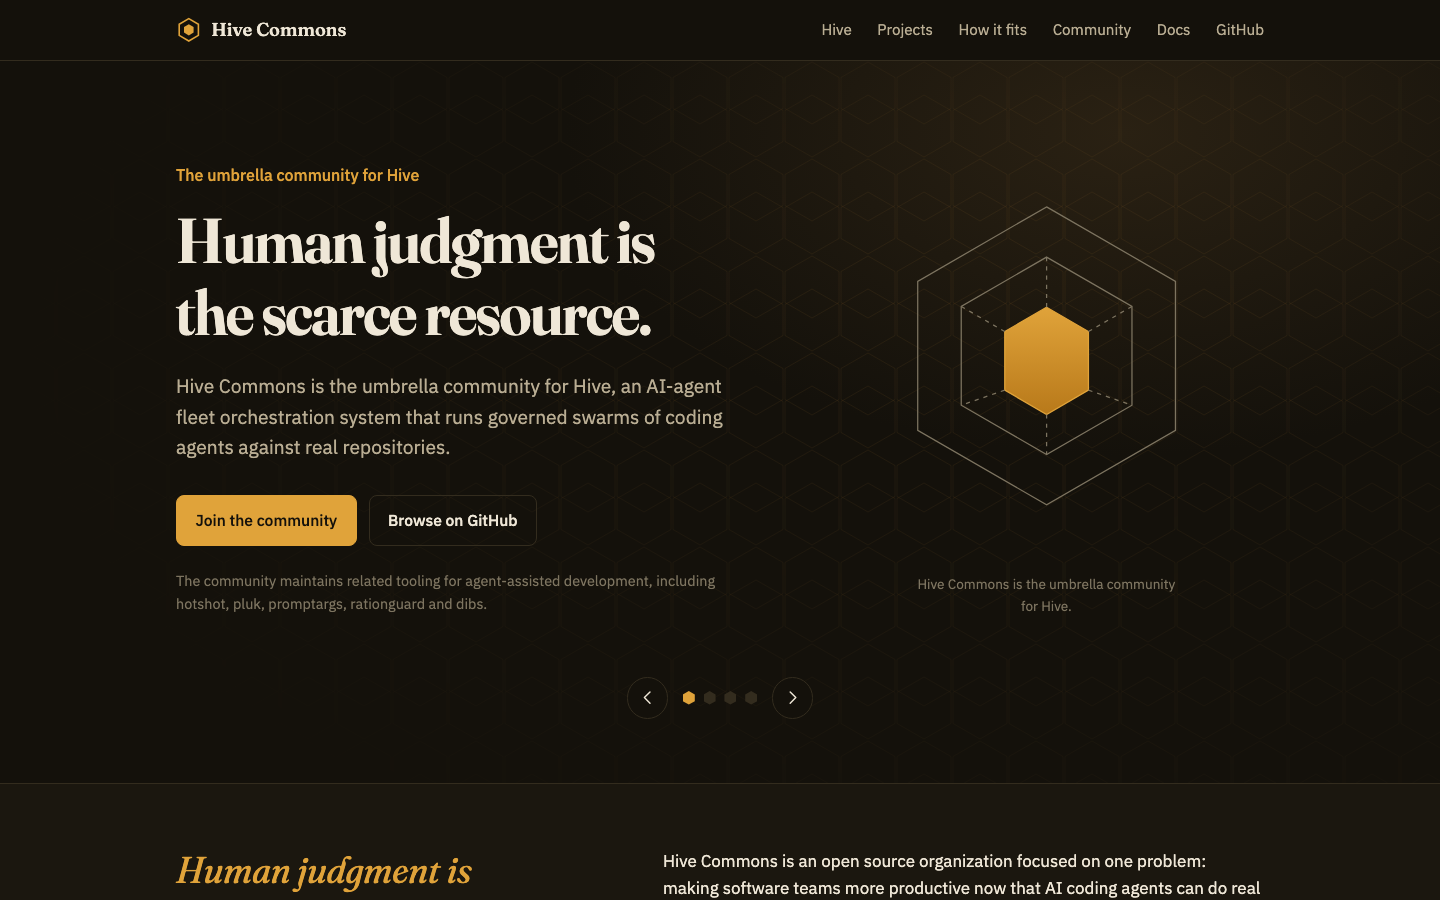
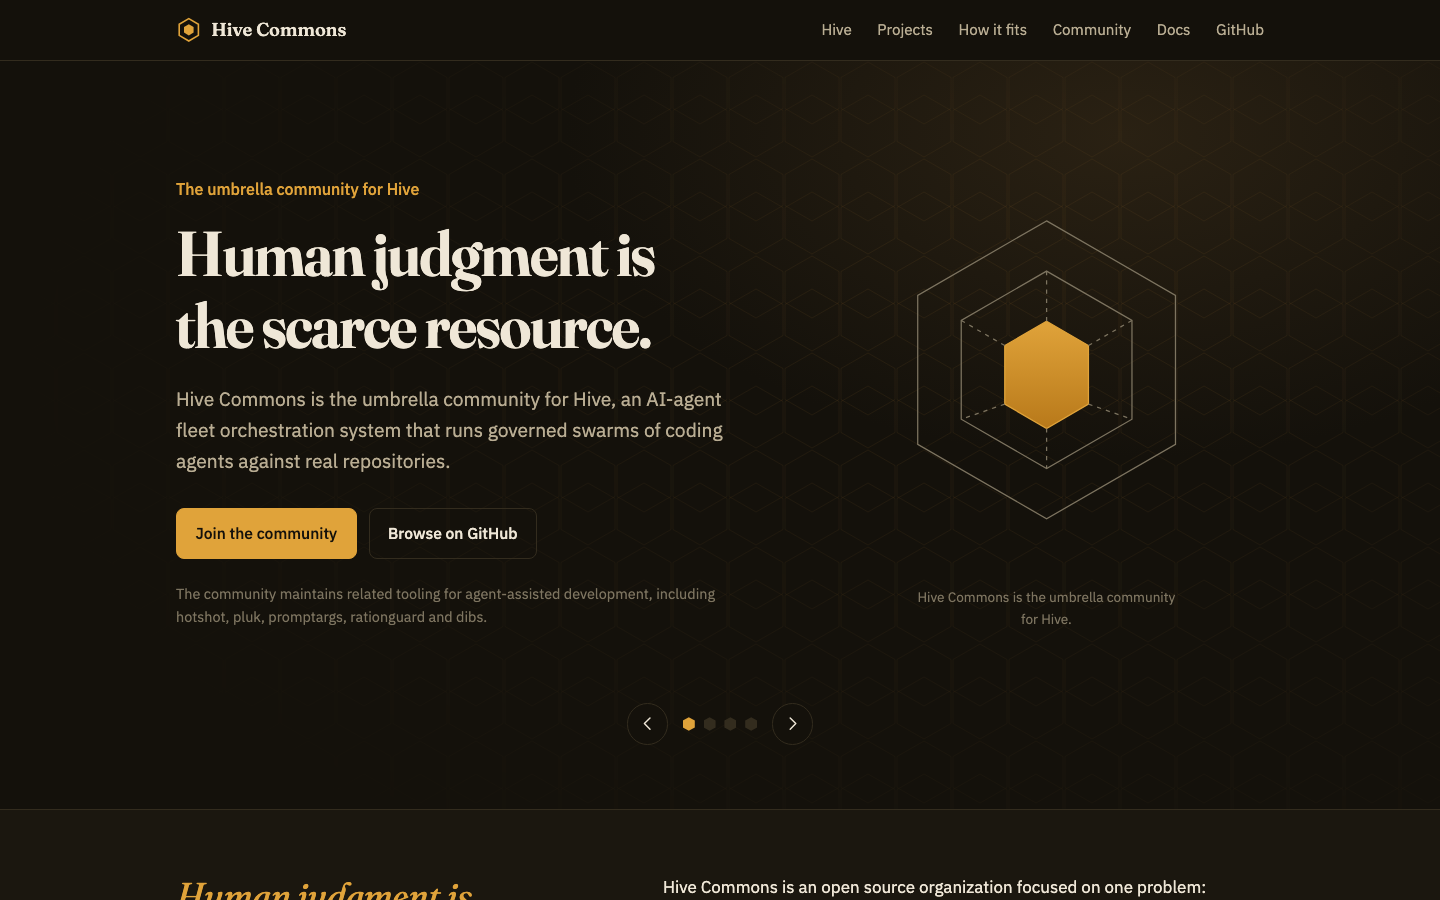
🐛 Stabilize hero carousel height (#15)

diff --git a/index.html b/index.html
@@ -70,7 +70,7 @@
           <p class="hero-note">The community maintains related tooling for agent-assisted development, including hotshot, pluk, promptargs, rationguard and dibs.</p>
         </div>
         <figure class="hero-art">
-          <svg class="hero-visual" viewBox="0 0 520 480" role="img" aria-labelledby="hero-commons-title">
+          <svg class="hero-visual" width="520" height="480" viewBox="0 0 520 480" role="img" aria-labelledby="hero-commons-title">
             <title id="hero-commons-title">Hive Commons mark</title>
             <defs>
               <linearGradient id="commonsFill" x1="0" y1="0" x2="0" y2="1">
@@ -101,7 +101,7 @@
           <p class="hero-note">A single Go binary enumerates GitHub issues and PRs, classifies them by complexity, and dispatches work to AI agents.</p>
         </div>
         <figure class="hero-art">
-          <svg class="hero-visual" viewBox="0 0 520 480" role="img" aria-labelledby="hero-hive-title">
+          <svg class="hero-visual" width="520" height="480" viewBox="0 0 520 480" role="img" aria-labelledby="hero-hive-title">
             <title id="hero-hive-title">Hive hub and spoke honeycomb</title>
             <g class="spoke-lines" fill="none" stroke="currentColor" stroke-width="1.5" stroke-dasharray="4 5">
               <line x1="260" y1="240" x2="260" y2="96"/>
@@ -140,7 +140,7 @@
           <p class="hero-note">Write a spec. Spektacular plans, then implements, driving the coding agent of your choice from a single markdown source of truth.</p>
         </div>
         <figure class="hero-art">
-          <svg class="hero-visual" viewBox="0 0 520 480" role="img" aria-labelledby="hero-spektacular-title">
+          <svg class="hero-visual" width="520" height="480" viewBox="0 0 520 480" role="img" aria-labelledby="hero-spektacular-title">
             <title id="hero-spektacular-title">Spec to plan to implementation</title>
             <g fill="none" stroke="currentColor" stroke-width="1.5" stroke-linecap="round" stroke-linejoin="round">
               <rect x="70" y="145" width="104" height="150" rx="10"/>
@@ -173,7 +173,7 @@
           <p class="hero-note">Lightweight pub-sub event streaming, screenshots straight into the terminal, template expansion for AI prompts, rationalization detection, and contributor attribution.</p>
         </div>
         <figure class="hero-art">
-          <svg class="hero-visual" viewBox="0 0 520 480" role="img" aria-labelledby="hero-family-title">
+          <svg class="hero-visual" width="520" height="480" viewBox="0 0 520 480" role="img" aria-labelledby="hero-family-title">
             <title id="hero-family-title">Project family cluster</title>
             <g fill="none" stroke="currentColor" stroke-width="1.5" stroke-linecap="round" stroke-linejoin="round">
               <path d="M260 212l64-38M260 212l78 64M260 212l-80 58M260 212l-62-74M260 212v96" stroke-dasharray="5 6"/>
@@ -457,6 +457,7 @@
   var root = document.querySelector('[data-hero-carousel]');
   if (!root) return;
   var slides = Array.prototype.slice.call(root.querySelectorAll('[data-hero-slide]'));
+  var stage = root.querySelector('[data-hero-stage]');
   var controls = root.querySelector('[data-hero-controls]');
   var dotsWrap = root.querySelector('[data-hero-dots]');
   var status = root.querySelector('[data-hero-status]');
@@ -469,6 +470,7 @@
   var reduceMotion = window.matchMedia('(prefers-reduced-motion: reduce)');
   var current = 0;
   var timer = null;
+  var resizeTimer = null;
   var paused = false;
   var pointerStartX = null;
   var pointerStartY = null;
@@ -485,6 +487,42 @@
   });
 
   if (controls) controls.hidden = false;
+
+  function measureHero() {
+    if (!stage) return;
+    var measure = document.createElement('div');
+    var rootStyle = window.getComputedStyle(root);
+    var controlsStyle = controls ? window.getComputedStyle(controls) : null;
+    var controlsHeight = controls ? controls.getBoundingClientRect().height : 0;
+    var controlsGap = controlsStyle ? parseFloat(controlsStyle.marginTop) || 0 : 0;
+    var paddingY = (parseFloat(rootStyle.paddingTop) || 0) + (parseFloat(rootStyle.paddingBottom) || 0);
+    var tallest = 0;
+
+    measure.className = 'hero-measure';
+    measure.style.width = stage.getBoundingClientRect().width + 'px';
+    slides.forEach(function (slide) {
+      var clone = slide.cloneNode(true);
+      clone.hidden = false;
+      clone.removeAttribute('inert');
+      clone.removeAttribute('id');
+      measure.appendChild(clone);
+    });
+    root.appendChild(measure);
+    Array.prototype.forEach.call(measure.children, function (slide) {
+      tallest = Math.max(tallest, slide.getBoundingClientRect().height);
+    });
+    measure.remove();
+
+    var stageHeight = Math.ceil(tallest);
+    var heroHeight = Math.ceil(stageHeight + controlsHeight + controlsGap + paddingY);
+    root.style.setProperty('--hero-stage-h', stageHeight + 'px');
+    root.style.setProperty('--hero-h', heroHeight + 'px');
+  }
+
+  function scheduleMeasure() {
+    clearTimeout(resizeTimer);
+    resizeTimer = setTimeout(measureHero, 80);
+  }
 
   function linkedIndex() {
     var id = window.location.hash.slice(1);
@@ -579,6 +617,10 @@
   if (reduceMotion.addEventListener) {
     reduceMotion.addEventListener('change', function () { reduceMotion.matches ? stop() : start(); });
   }
+  window.addEventListener('resize', scheduleMeasure);
+  if (document.fonts && document.fonts.ready) {
+    document.fonts.ready.then(measureHero);
+  }
   window.addEventListener('hashchange', function () {
     var i = linkedIndex();
     if (i !== -1) { goTo(i, true); restart(); }
@@ -586,6 +628,7 @@
 
   var initial = linkedIndex();
   if (initial !== -1) current = initial;
+  measureHero();
   paint(false);
   start();
 })();

diff --git a/style.css b/style.css
@@ -99,6 +99,7 @@ p { margin: 0; }
   --hero-h: 42rem;
   --hero-stage-h: 33rem;
   position: relative;
+  height: var(--hero-h);
   min-height: var(--hero-h);
   padding-block: clamp(2rem, 5vw, 4rem);
   background-image:
@@ -166,6 +167,7 @@ h1 {
 
 .hero-art { margin: 0; display: flex; flex-direction: column; align-items: center; gap: .75rem; }
 .hero-visual { width: 100%; max-width: 30rem; color: var(--ink-3); }
+.hero-visual { aspect-ratio: 13 / 12; height: auto; }
 .hero-visual .cell path { fill: var(--bg-2); stroke: var(--honey-deep); stroke-width: 1.5; }
 .hero-visual .cell text, .workflow-labels, .cluster-labels { fill: var(--ink-2); }
 .hero-visual .hub path { fill: var(--honey); stroke: var(--honey); stroke-width: 1.5; }
@@ -198,6 +200,20 @@ h1 {
 }
 .hero-dot[aria-current="true"] { background: var(--honey); }
 .hero-dot:focus-visible { outline: none; box-shadow: 0 0 0 3px var(--bg), 0 0 0 5px var(--honey); clip-path: none; border-radius: 50%; }
+.hero-measure {
+  position: absolute;
+  left: -10000px;
+  top: 0;
+  visibility: hidden;
+  pointer-events: none;
+  z-index: -1;
+}
+.hero-measure .hero-slide {
+  position: static;
+  inset: auto;
+  display: grid;
+}
+.hero-measure .hero-slide[hidden] { display: grid; }
 
 @media (prefers-reduced-motion: no-preference) {
   .hero-visual .hub { animation: pour .7s ease-out both; transform-origin: 260px 240px; }
